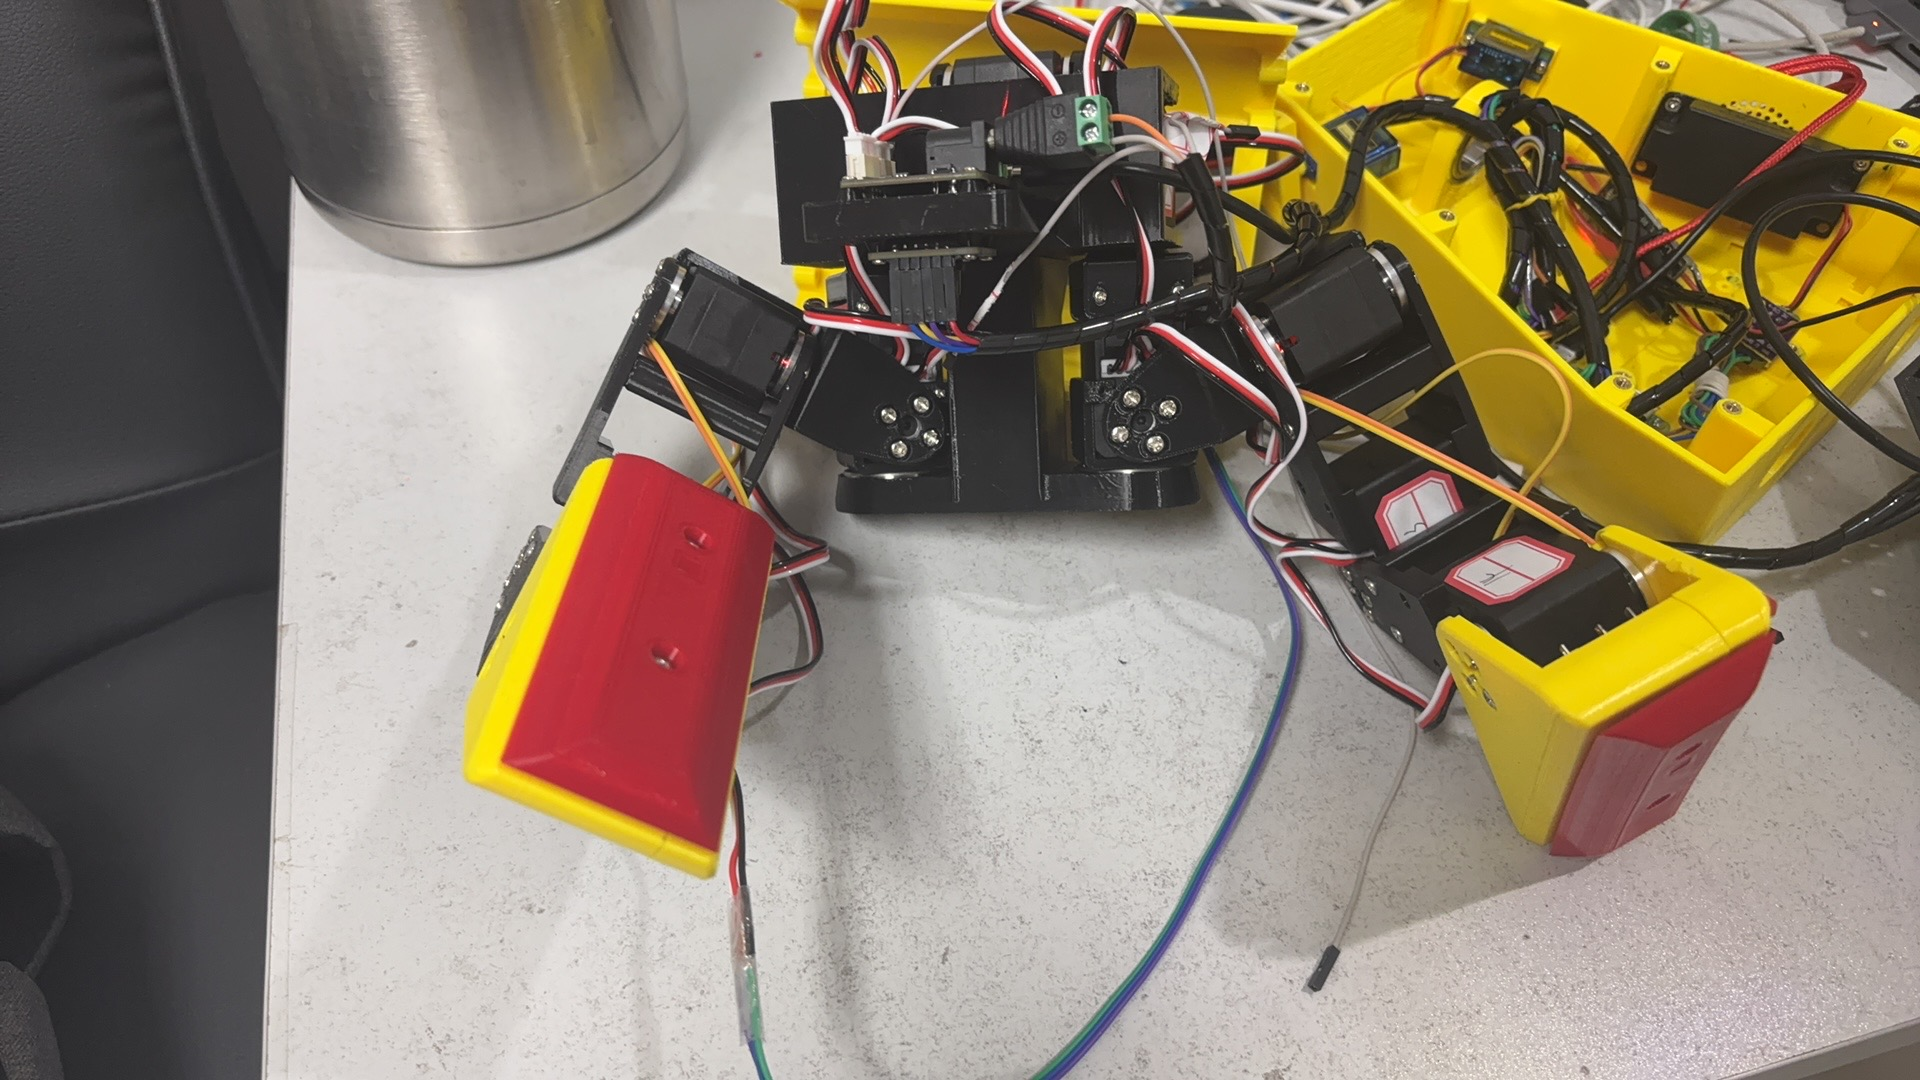
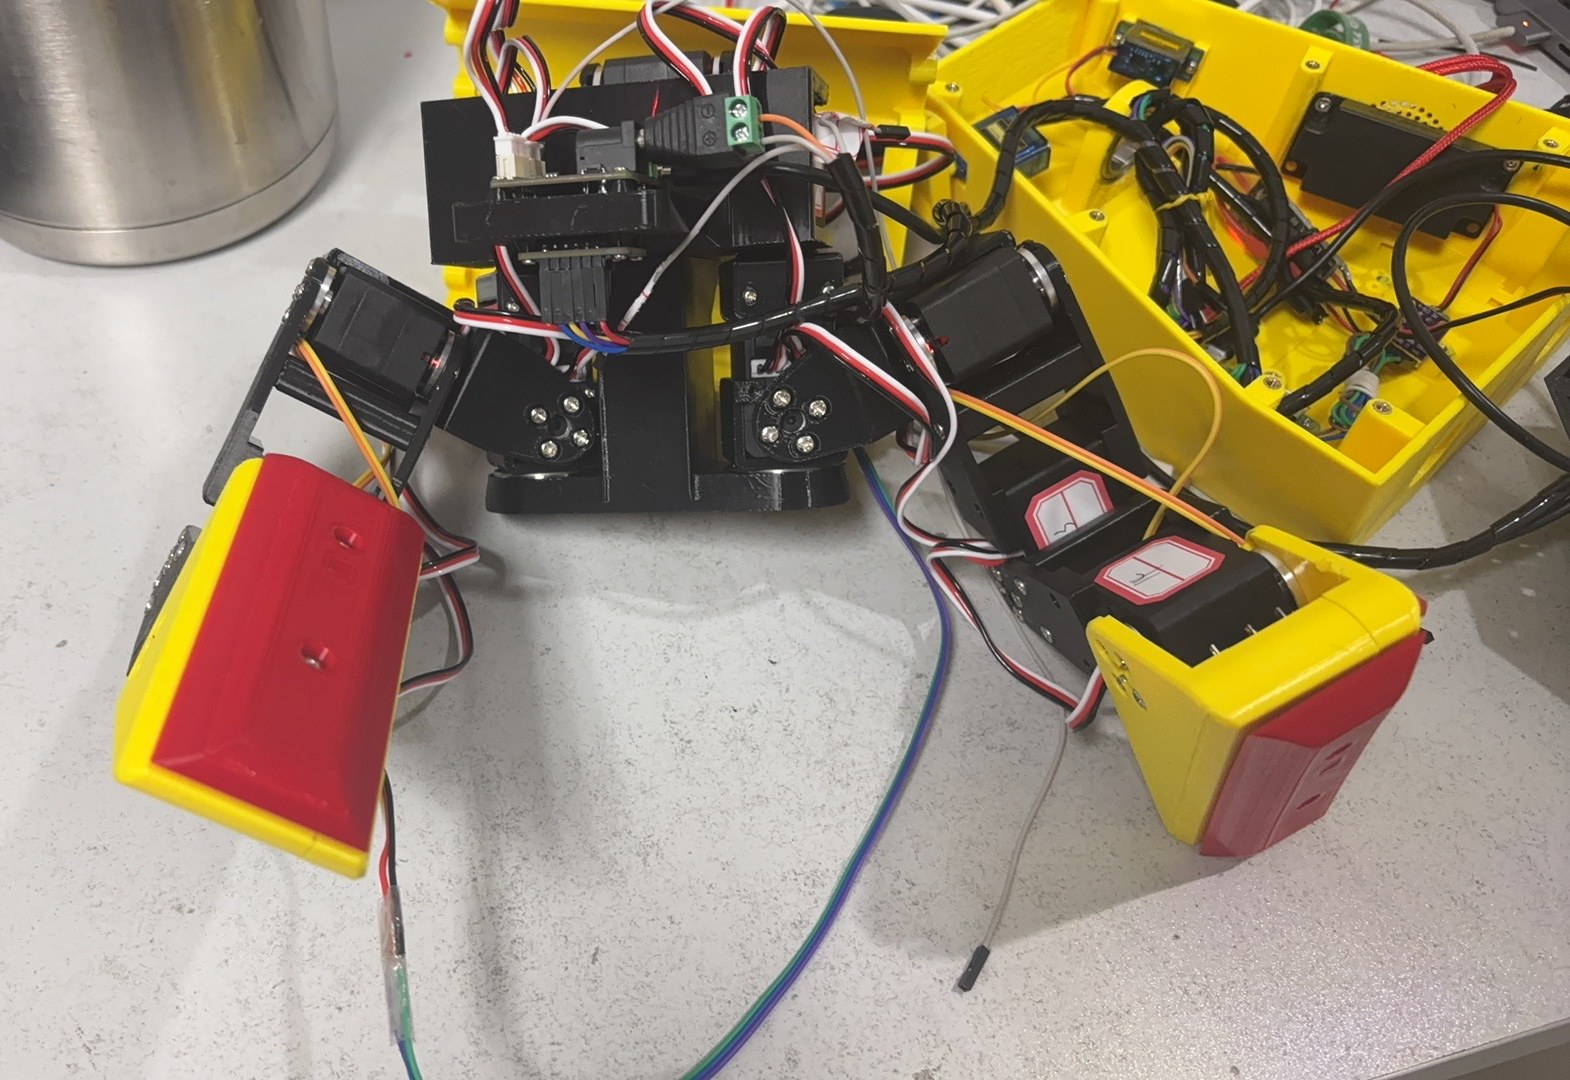
时间线照片统一为正方形卡片，裁掉 IMG_3999 左侧黑边

diff --git a/index.html b/index.html
@@ -106,7 +106,9 @@
   .tl-date{display:flex;align-items:center;gap:10px;margin-bottom:12px}
   .tl-date b{font-size:15px;font-weight:800;background:var(--surface);border:1px solid var(--border);padding:2px 12px;border-radius:99px}
   .tl-date span{font-size:13px;color:var(--muted)}
-  .tl-row{display:grid;grid-template-columns:repeat(auto-fill,minmax(200px,1fr));gap:12px;align-items:start}
+  .tl-row{display:grid;grid-template-columns:repeat(auto-fill,minmax(180px,1fr));gap:12px}
+  .tl-row .ph{aspect-ratio:1}
+  .tl-row .ph img{width:100%;height:100%;object-fit:cover}
 
   /* ---------- 视频 ---------- */
   .video-grid{display:grid;grid-template-columns:1fr 1fr;gap:20px}
